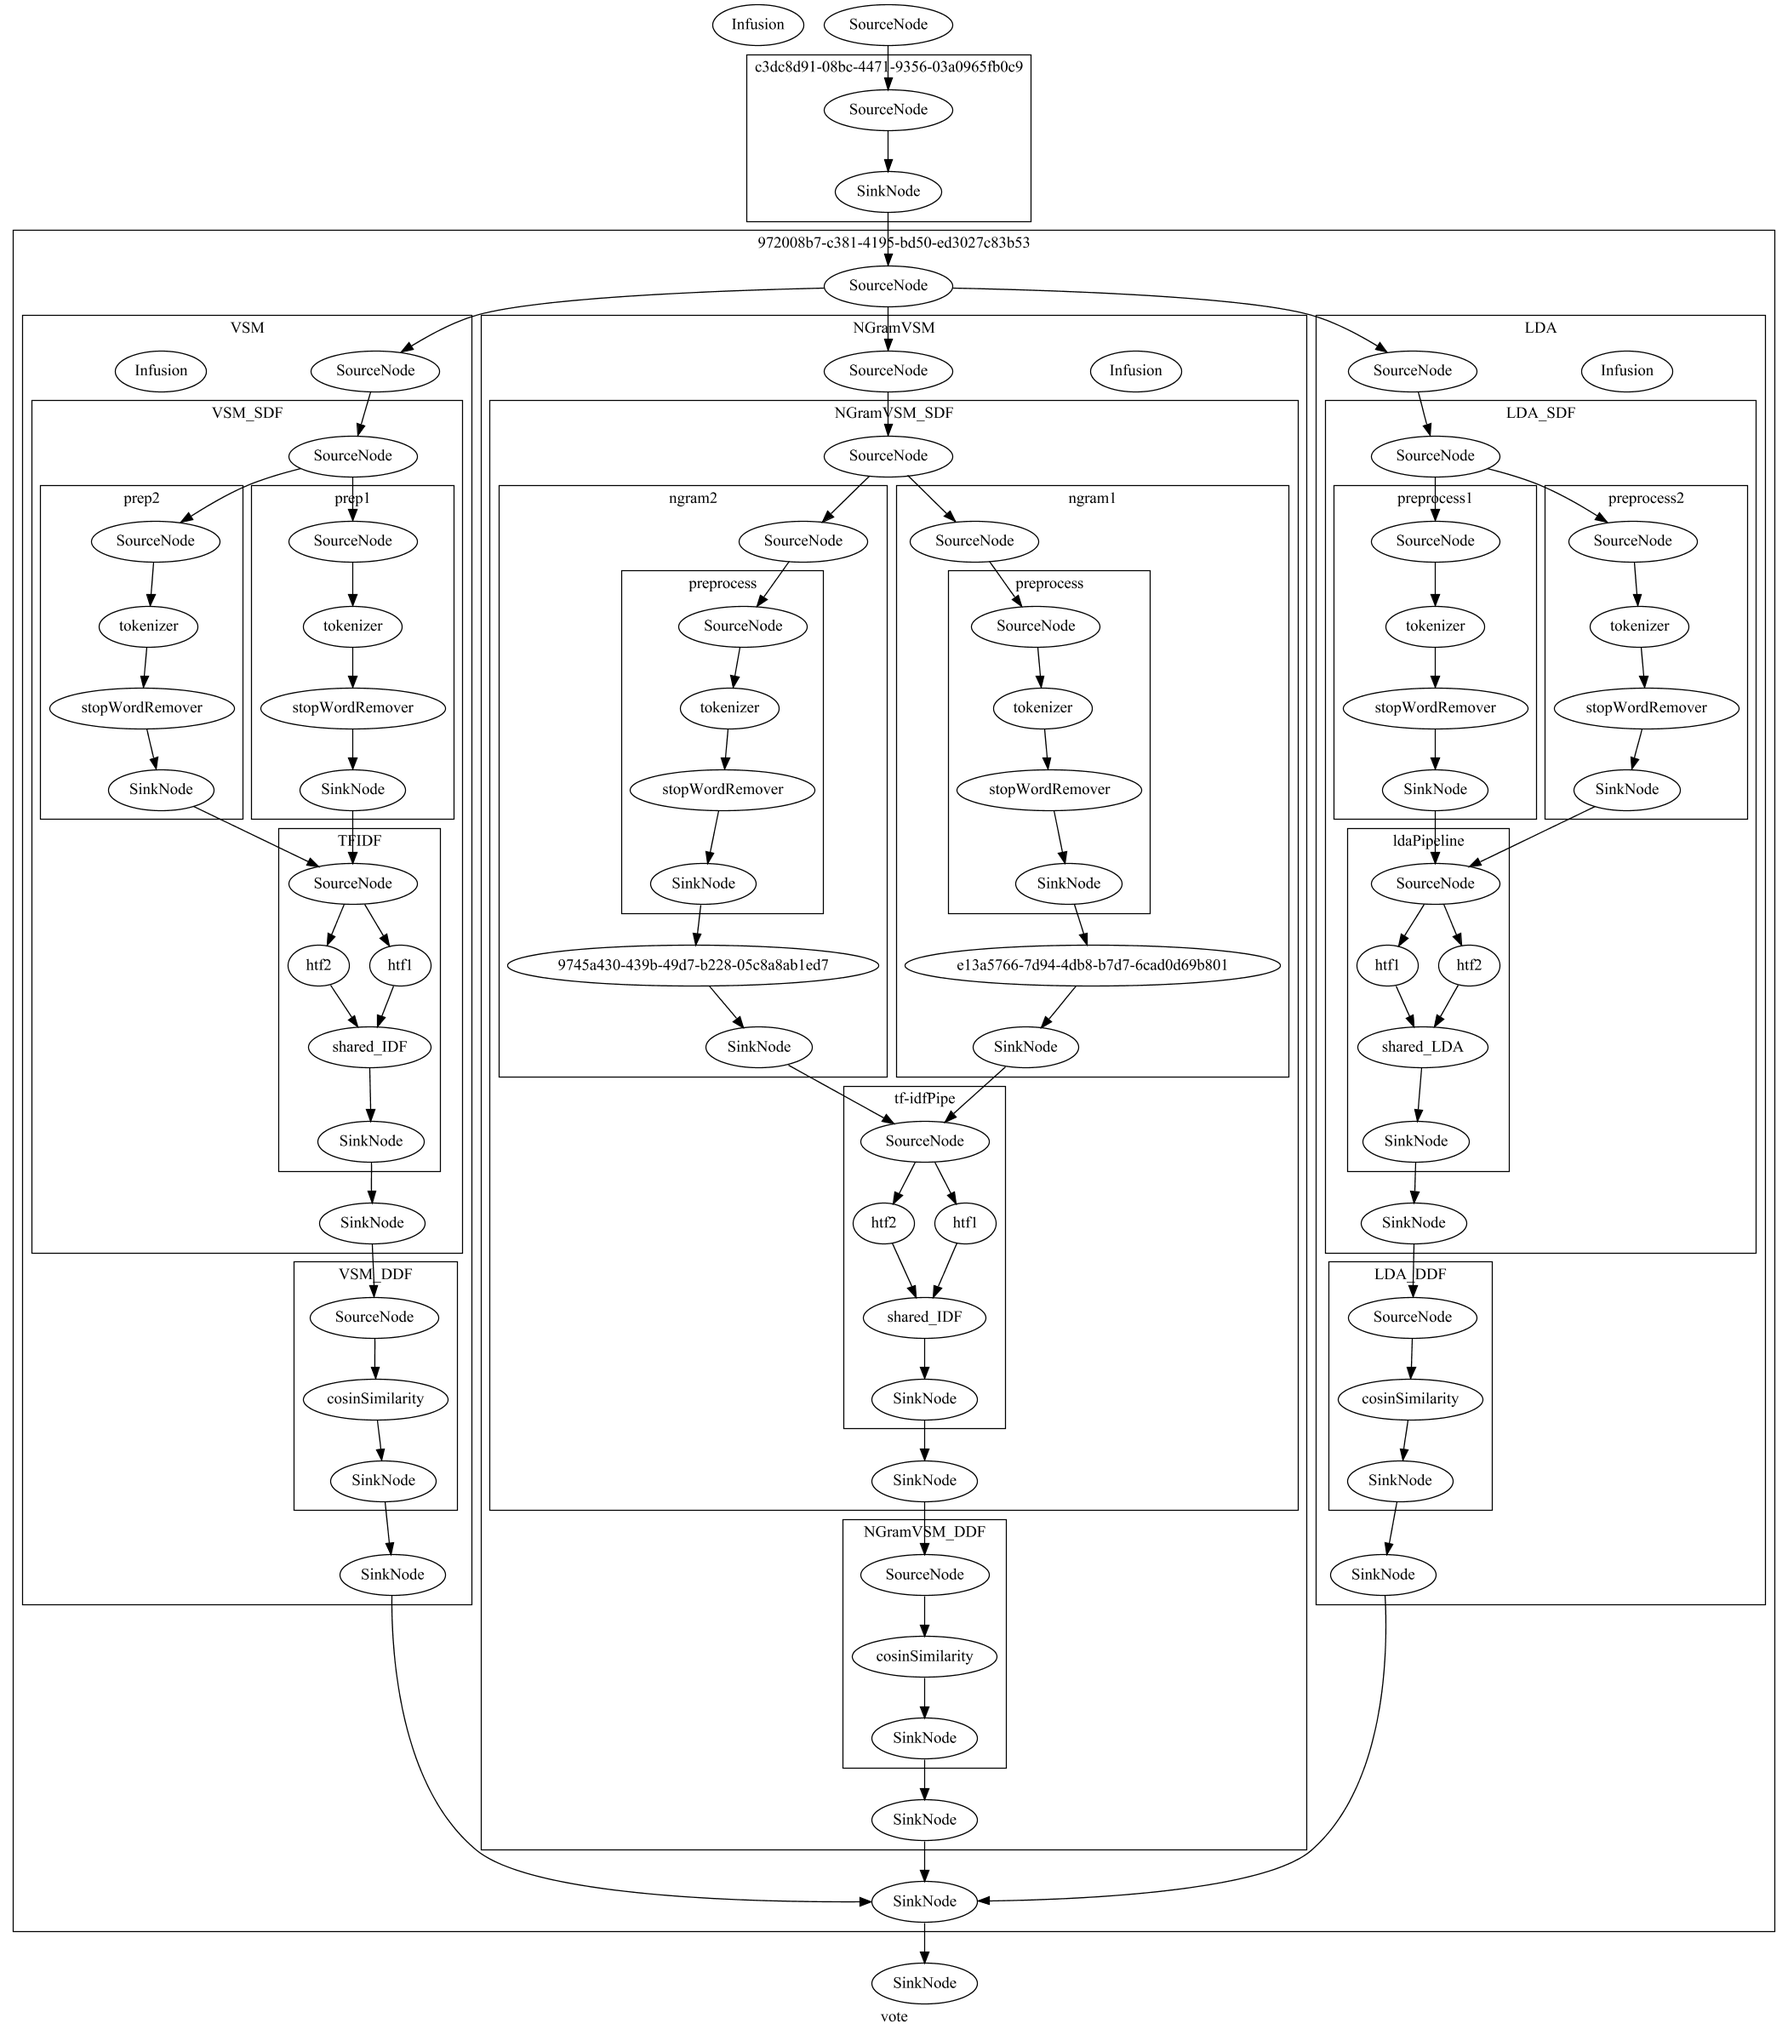
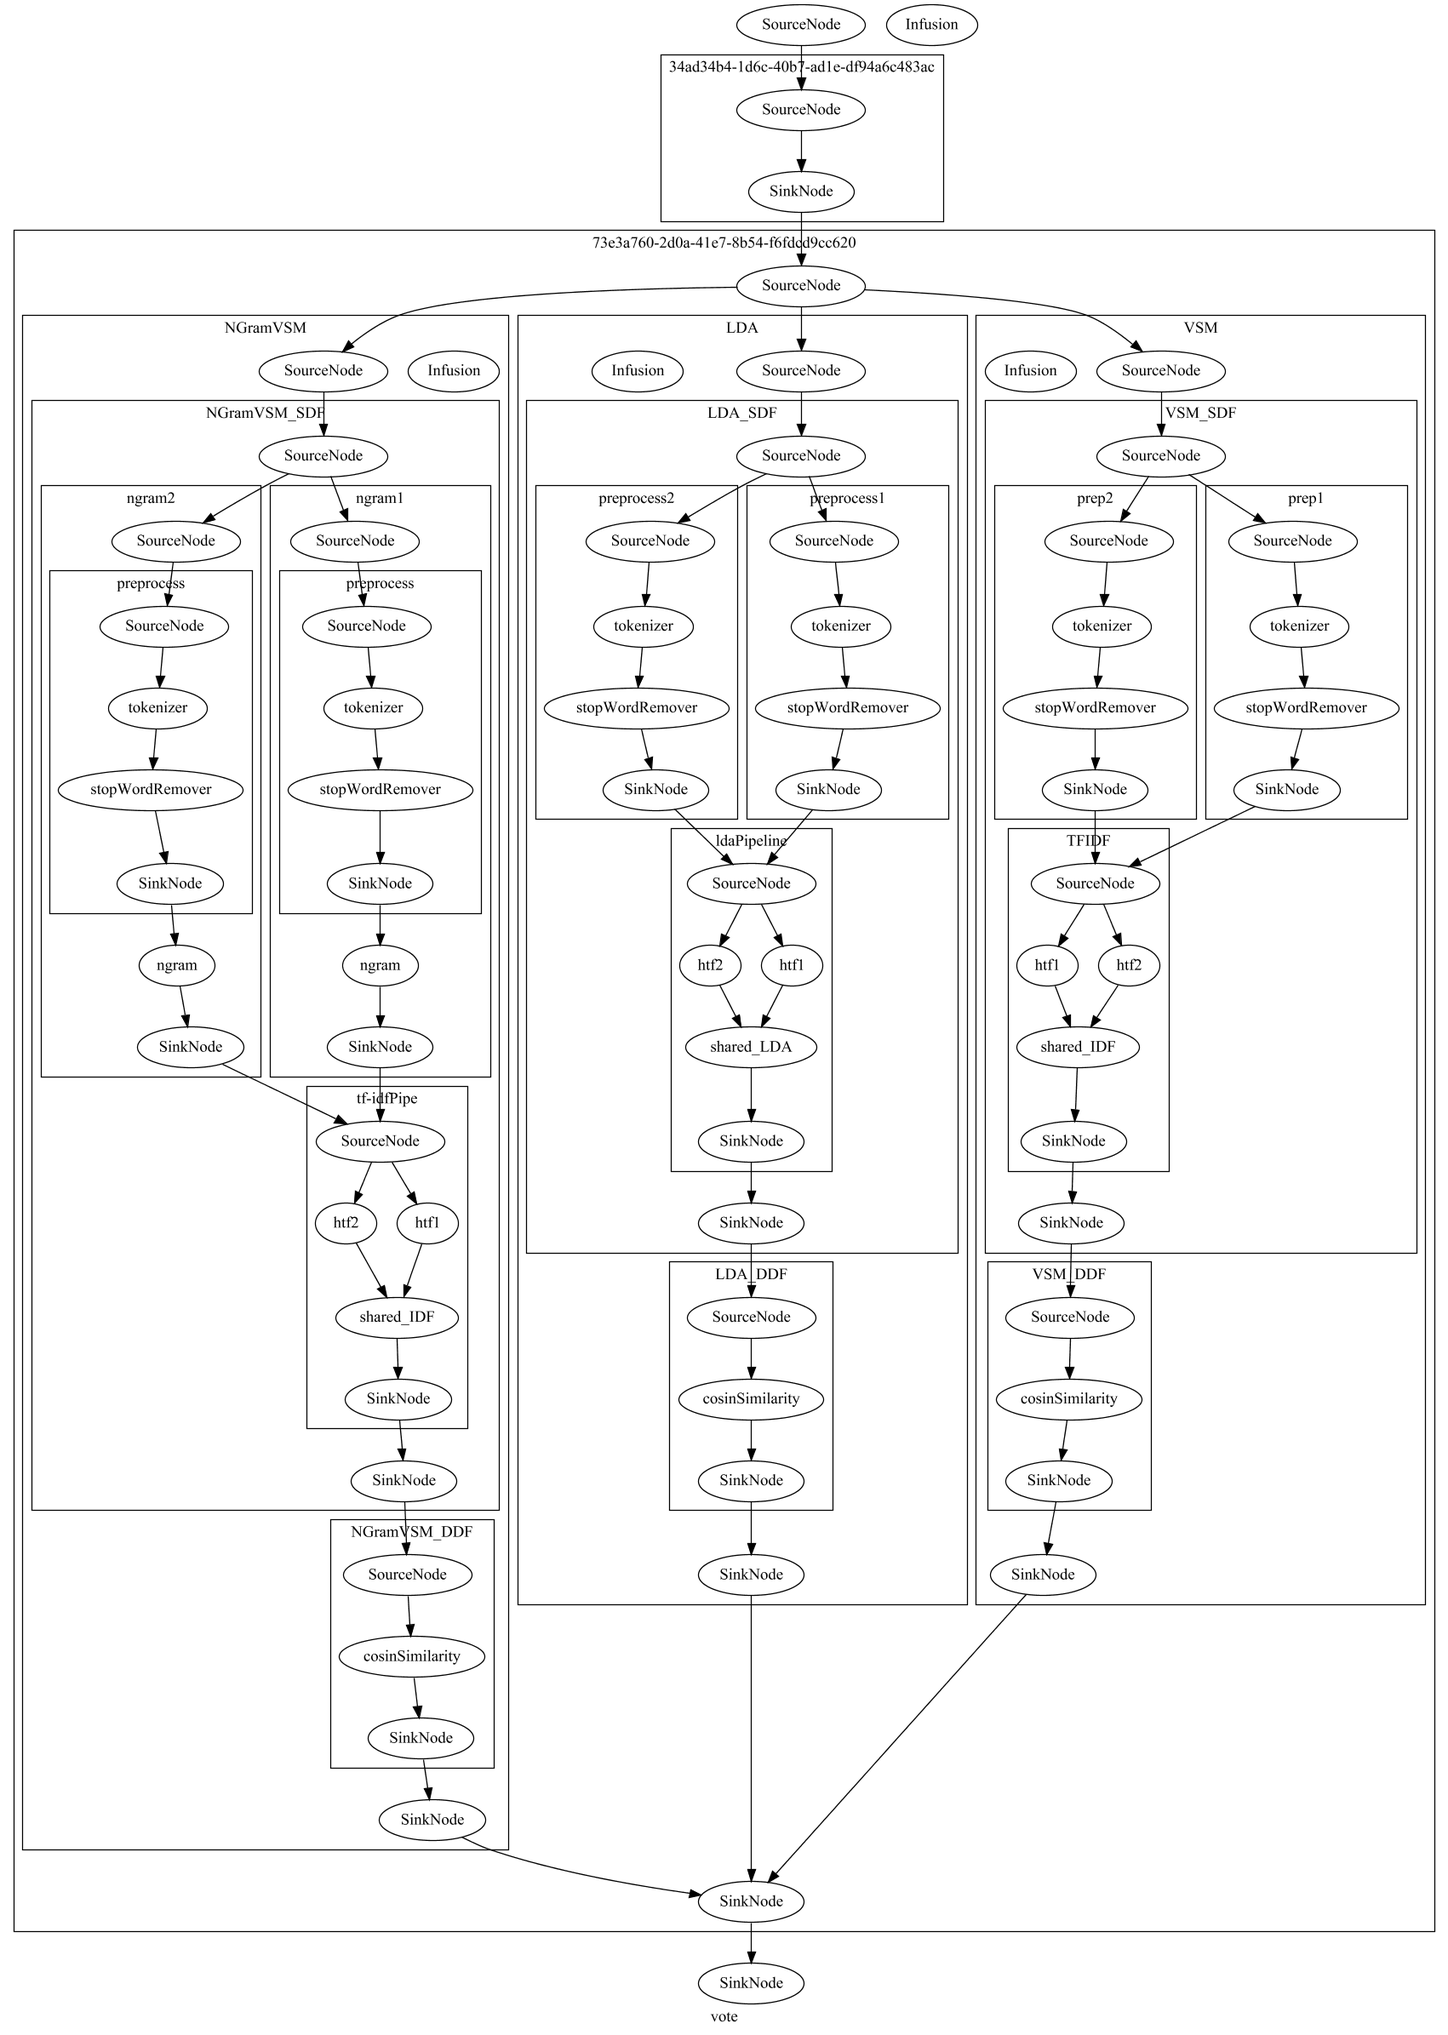
fix graph label issues

Changed region(s): [[0.0, 0.0, 0.9971, 0.9904], [0.6232, 0.0, 0.6543, 0.0619], [0.9036, 0.1547, 0.9347, 0.1857]]

diff --git a/src/main/java/core/graphPipeline/basic/SGraph.java b/src/main/java/core/graphPipeline/basic/SGraph.java
@@ -48,8 +48,8 @@ public class SGraph extends Vertex implements SDFInterface {
         edges = new HashSet<>();
         sourceNode = new SNode(new SGraphIOStage());
         sinkNode = new SNode(new SGraphIOStage());
-        sourceNode.setId(String.format("%s-%s", "SourceNode", sourceNode.vertexId));
-        sinkNode.setId(String.format("%s-%s", "SinkNode", sinkNode.vertexId));
+        sourceNode.setVertexLabel("SourceNode");
+        sinkNode.setVertexLabel("SinkNode");
         sourceNode.setContext(this);
         sinkNode.setContext(this);
         nodes.put(sourceNode.vertexId, sourceNode);
@@ -64,8 +64,8 @@ public class SGraph extends Vertex implements SDFInterface {
         edges = new HashSet<>();
         sourceNode = new SNode(new SGraphIOStage());
         sinkNode = new SNode(new SGraphIOStage());
-        sourceNode.setId(String.format("%s-%s", "SourceNode", sourceNode.vertexId));
-        sinkNode.setId(String.format("%s-%s", "SinkNode", sinkNode.vertexId));
+        sourceNode.setVertexLabel("SourceNode");
+        sinkNode.setVertexLabel("SinkNode");
         sourceNode.setContext(this);
         sinkNode.setContext(this);
         nodes.put(sourceNode.vertexId, sourceNode);
@@ -475,22 +475,14 @@ public class SGraph extends Vertex implements SDFInterface {
     }
 
     public MutableGraph getVizGraph() {
-        String vertexPath = getVertexPath();
-        MutableGraph g = mutGraph(vertexPath).setDirected(true).setCluster(true);
-        g.graphAttrs().add(Label.of(getVertexId()));
+        String vertexId = getVertexId();
+        MutableGraph g = mutGraph(vertexId).setDirected(true).setCluster(true);
+        g.graphAttrs().add(Label.of(getVertexLabel()));
         for (Vertex vertex : this.getNodes()) {
             if (vertex instanceof SNode) {
                 SNode v = (SNode) vertex;
-                String nodeTitle = v.getVertexId();
-                //Simplify the node name
-                if (nodeTitle.startsWith("SourceNode")) {
-                    nodeTitle = "SourceNode";
-                } else if (nodeTitle.startsWith("SinkNode")) {
-                    nodeTitle = "SinkNode";
-                } else if (nodeTitle.startsWith("Infusion")) {
-                    nodeTitle = "Infusion";
-                }
-                MutableNode vNode = mutNode(v.getVertexPath()).add(Label.of(nodeTitle));
+                String nodeTitle = v.getVertexLabel();
+                MutableNode vNode = mutNode(v.getVertexId()).add(Label.of(nodeTitle));
                 for (Vertex outputNode : v.getOutputVertices()) { //note: sink node have no outputVertices, parent graph hold this information
                     vNode = createVizEdge(vNode, outputNode);
                 }
@@ -499,7 +491,7 @@ public class SGraph extends Vertex implements SDFInterface {
                 SGraph v = (SGraph) vertex;
                 MutableGraph subGraph = v.getVizGraph();
                 Vertex sinkNode = v.sinkNode;
-                MutableNode innerSink = mutNode(sinkNode.getVertexPath()).add(Label.of("SinkNode"));
+                MutableNode innerSink = mutNode(sinkNode.getVertexId()).add(Label.of("SinkNode"));
                 for (Vertex outputNode : vertex.getOutputVertices()) {
                     innerSink = createVizEdge(innerSink, outputNode);
                 }
@@ -511,12 +503,12 @@ public class SGraph extends Vertex implements SDFInterface {
 
     private MutableNode createVizEdge(MutableNode vizFromNode, Vertex outputNode) {
         if (outputNode instanceof SNode) {
-            vizFromNode = vizFromNode.addLink(outputNode.getVertexPath());
+            vizFromNode = vizFromNode.addLink(outputNode.getVertexId());
         } else {
             SGraph subGraph = (SGraph) outputNode;
             SNode innerSource = subGraph.sourceNode;
             MutableGraph innerGraph = subGraph.getVizGraph();// create inner graph, this graph is implicitly added to the parent
-            vizFromNode = vizFromNode.addLink(innerSource.getVertexPath());
+            vizFromNode = vizFromNode.addLink(innerSource.getVertexId());
         }
         return vizFromNode;
     }

diff --git a/src/main/java/core/graphPipeline/basic/Vertex.java b/src/main/java/core/graphPipeline/basic/Vertex.java
@@ -18,6 +18,7 @@ abstract public class Vertex {
 
     private void init() {
         vertexId = UUID.randomUUID().toString();
+        vertexLabel = vertexId;
         inputTable = new IOTable(this);
         outputTable = new IOTable(this);
         symbolValues = new HashMap<>();
@@ -27,17 +28,9 @@ abstract public class Vertex {
         init();
     }
 
-    public Vertex(String vertexId) {
+    public Vertex(String vertexLabel) {
         init();
-        this.vertexId = vertexId;
-    }
-
-    public Vertex(Vertex vertex) {
-        this.vertexId = vertex.vertexId;
-        inputTable = vertex.inputTable;
-        outputTable = vertex.outputTable;
-        context = vertex.context;
-        symbolValues = vertex.symbolValues;
+        this.vertexLabel = vertexLabel;
     }
 
     /**
@@ -159,7 +152,7 @@ abstract public class Vertex {
     }
 
     /**
-     * Get the global path of the vertex in the whole graph
+     * Get the global path of the vertex in the whole graph. For debug use primarily.
      *
      * @return
      */
@@ -170,23 +163,23 @@ abstract public class Vertex {
         }
         StringJoiner joiner = new StringJoiner("_");
         joiner.add(prefix);
-        joiner.add(getVertexId());
+        joiner.add(getVertexLabel());
         return joiner.toString();
     }
 
-    public void setVertexId(String vertexId) {
-        this.vertexId = vertexId;
+    public String getVertexLabel() {
+        return vertexLabel;
     }
 
     @Override
     public String toString() {
         return "Vertex{" +
-                "vertexId='" + vertexId + '\'' +
+                "vertexLabel='" + vertexLabel + '\'' +
                 '}';
     }
 
-    public void setId(String id) {
-        vertexId = id;
+    public void setVertexLabel(String label) {
+        vertexLabel = label;
     }
 
     public Vertex getContext() {

diff --git a/src/test/java/SparkJobTest.java b/src/test/java/SparkJobTest.java
@@ -77,7 +77,7 @@ public class SparkJobTest extends TestBase {
     public void TaskMergeTest() throws Exception {
         SparkTraceTask t1 = new VSMTraceBuilder().getTask("s_id","t_id");
         SGraph sdf = new SGraph();
-        sdf.setId("ParentTask_SDF");
+        sdf.setVertexLabel("ParentTask_SDF");
         sdf.addInputField("s_id").addInputField("t_id").addInputField("s_text").addInputField("t_text");
         sdf.addOutputField("s_text_out", SGraph.SDFType.SOURCE_SDF);
         sdf.addOutputField("t_text_out", SGraph.SDFType.TARGET_SDF);
@@ -93,7 +93,7 @@ public class SparkJobTest extends TestBase {
         ddf.addInputField("s_text").addInputField("s_id");
         ddf.addInputField("t_text").addInputField("t_id");
         ddf.addOutputField("vsm_cosin_sim_score");
-        ddf.setId("ParentTask_DDF");
+        ddf.setVertexLabel("ParentTask_DDF");
 
         ddf.addNode(t1);
         ddf.connect(ddf.sourceNode, "s_text", t1, "s_text");
@@ -103,7 +103,7 @@ public class SparkJobTest extends TestBase {
         ddf.connect(t1, "vsm_score", ddf.sinkNode, "vsm_cosin_sim_score");
 
         SparkTraceTask context = new SparkTraceTask(sdf, ddf, "s_id", "t_id");
-        context.setId("ContextTask");
+        context.setVertexLabel("ContextTask");
         context.addInputField("s_id").addInputField("t_id").addInputField("s_text").addInputField("t_text");
         context.addOutputField("vsm_score");
         context.connect(context.sourceNode, "s_id", sdf, "s_id");

diff --git a/src/test/java/SGraphTest.java b/src/test/java/SGraphTest.java
@@ -1,5 +1,3 @@
-import buildingBlocks.preprocessor.EnglishPreprocess;
-import buildingBlocks.text2TFIDF.Text2TFIDFPipeline;
 import core.graphPipeline.basic.*;
 import core.pipelineOptimizer.*;
 import examples.TestBase;
@@ -15,11 +13,8 @@ import org.apache.spark.sql.Dataset;
 import org.apache.spark.sql.Row;
 import org.junit.Assert;
 import org.junit.Test;
-import visualization.graphvizapi.Graph;
 
-import java.util.HashMap;
 import java.util.List;
-import java.util.Map;
 
 
 /**
@@ -39,7 +34,7 @@ public class SGraphTest extends TestBase {
         IDF idf = new IDF();
 
         SGraph g1 = new SGraph();
-        g1.setId("graph");
+        g1.setVertexLabel("graph");
         g1.addInputField("sentence");
         g1.addOutputField("output_idf");
 
@@ -122,7 +117,7 @@ public class SGraphTest extends TestBase {
     @Test
     public void penetrationTest() throws Exception {
         SGraph globalGraph = new SGraph();
-        globalGraph.setId("top_graph");
+        globalGraph.setVertexLabel("top_graph");
         globalGraph.addInputField("sentence");
 
         globalGraph.addOutputField("output_idf");

diff --git a/src/main/java/buildingBlocks/traceTasks/NGramVSMTraceTask.java b/src/main/java/buildingBlocks/traceTasks/NGramVSMTraceTask.java
@@ -1,7 +1,6 @@
 package buildingBlocks.traceTasks;
 
 import buildingBlocks.text2TFIDF.Text2NGramTFIDFPipeline;
-import buildingBlocks.text2TFIDF.Text2TFIDFPipeline;
 import buildingBlocks.vecSimilarityPipeline.SparseCosinSimilarityPipeline;
 import core.SparkTraceTask;
 import core.graphPipeline.basic.SGraph;
@@ -36,7 +35,7 @@ public class NGramVSMTraceTask implements TraceTaskBuilder {
     @Override
     public SparkTraceTask getTask(String sourceId, String targetId) throws Exception {
         SparkTraceTask task = new SparkTraceTask(createSDF(), createDDF(), sourceId, targetId);
-        task.setId("NGramVSM");
+        task.setVertexLabel("NGramVSM");
         task.addInputField("s_text").addInputField("t_text");
         task.addOutputField("ngram_vsm_sim");
         connectTask(task);

diff --git a/src/main/java/buildingBlocks/traceTasks/VoteTraceBuilder.java b/src/main/java/buildingBlocks/traceTasks/VoteTraceBuilder.java
@@ -65,7 +65,7 @@ public class VoteTraceBuilder implements TraceTaskBuilder {
     @Override
     public SparkTraceTask getTask(String sourceId, String targetId) throws Exception {
         SparkTraceTask task = new SparkTraceTask(createSDF(), createDDF(), sourceId, targetId);
-        task.setId("vote");
+        task.setVertexLabel("vote");
         task.addInputField("s_text").addInputField("t_text");
         task.addOutputField("vsm_out");
         task.addOutputField("lda_out");

diff --git a/src/main/java/buildingBlocks/traceTasks/LDATraceBuilder.java b/src/main/java/buildingBlocks/traceTasks/LDATraceBuilder.java
@@ -35,7 +35,7 @@ public class LDATraceBuilder implements TraceTaskBuilder {
     @Override
     public SparkTraceTask getTask(String sourceId, String targetId) throws Exception {
         SparkTraceTask task = new SparkTraceTask(createSDF(), createDDF(), sourceId, targetId);
-        task.setId("LDA");
+        task.setVertexLabel("LDA");
         task.addInputField("s_text").addInputField("t_text");
         task.addOutputField("lda_sim");
         connectTask(task);

diff --git a/src/main/java/buildingBlocks/traceTasks/VSMTraceBuilder.java b/src/main/java/buildingBlocks/traceTasks/VSMTraceBuilder.java
@@ -35,7 +35,7 @@ public class VSMTraceBuilder implements TraceTaskBuilder {
     @Override
     public SparkTraceTask getTask(String sourceId, String targetId) throws Exception {
         SparkTraceTask task = new SparkTraceTask(createSDF(), createDDF(), sourceId, targetId);
-        task.setId("VSM");
+        task.setVertexLabel("VSM");
         task.addInputField("s_text").addInputField("t_text");
         task.addOutputField("vsm_sim");
         connectTask(task);

diff --git a/src/main/java/core/SparkTraceTask.java b/src/main/java/core/SparkTraceTask.java
@@ -41,7 +41,7 @@ public class SparkTraceTask extends SGraph {
         super();
         this.sdfGraph = sdfGraph;
         this.ddfGraph = ddfGraph;
-        this.infusionNode = new TransparentSNode(new InfusionStage(sdfGraph, ddfGraph), "Infusion_" + UUID.randomUUID());
+        this.infusionNode = new TransparentSNode(new InfusionStage(sdfGraph, ddfGraph), "Infusion");
         addNode(sdfGraph);
         addNode(ddfGraph);
         addNode(this.infusionNode);

diff --git a/src/main/java/buildingBlocks/preprocessor/NGramPreprocessPipeline.java b/src/main/java/buildingBlocks/preprocessor/NGramPreprocessPipeline.java
@@ -17,7 +17,7 @@ public class NGramPreprocessPipeline {
         SGraph prep1 = EnglishPreprocess.getGraph("preprocess");//text - cleanTokens
 
         NGram ngramStage = new NGram().setN(2);
-        SNode ngramNode = new SNode(new NullRemoverModelSingleIO(ngramStage));
+        SNode ngramNode = new SNode(new NullRemoverModelSingleIO(ngramStage), "ngram");
         ngramNode.addInputField("tokens");
         ngramNode.addOutputField("ngrams");
 

diff --git a/src/main/java/core/graphPipeline/basic/TransparentSNode.java b/src/main/java/core/graphPipeline/basic/TransparentSNode.java
@@ -11,8 +11,8 @@ public class TransparentSNode extends SNode implements ITransparentVertex {
         super(pipelineStage);
     }
 
-    public TransparentSNode(PipelineStage pipelineStage, String nodeId) {
-        super(pipelineStage, nodeId);
+    public TransparentSNode(PipelineStage pipelineStage, String label) {
+        super(pipelineStage, label);
     }
 
     @Override

diff --git a/src/main/java/core/graphPipeline/basic/SNode.java b/src/main/java/core/graphPipeline/basic/SNode.java
@@ -35,8 +35,8 @@ public class SNode extends Vertex {
         sparkPipelineStage = pipelineStage;
     }
 
-    public SNode(PipelineStage pipelineStage, String nodeId) {
-        super(nodeId);
+    public SNode(PipelineStage pipelineStage, String label) {
+        super(label);
         sparkPipelineStage = pipelineStage;
     }
 
